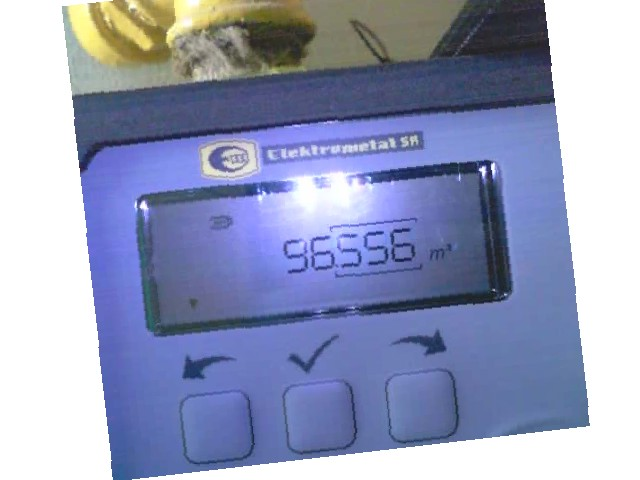
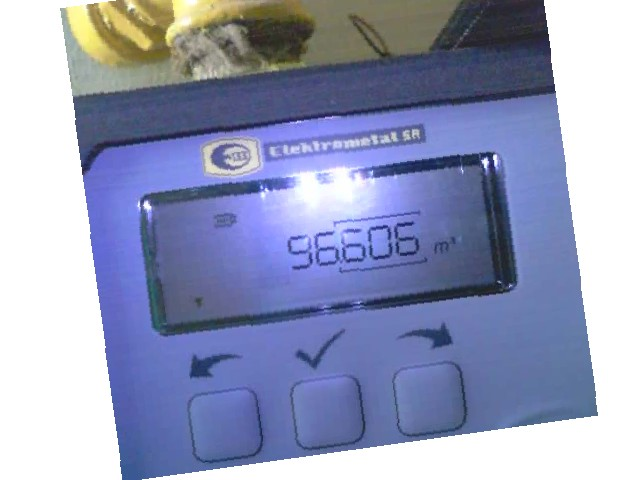
Automatyczna aktualizacja strony i danych

diff --git a/index.html b/index.html
@@ -35,11 +35,11 @@
 <body>
     <div class="container">
         <h1>Bieżący Stan Licznika</h1>
-        <div class="status">Ostatnia aktualizacja danych:<br><span class="timestamp">2026-10-27 08:26:16</span></div>
+        <div class="status">Ostatnia aktualizacja danych:<br><span class="timestamp">2026-10-27 08:31:43</span></div>
         <div class="odczyt">93498 m³</div>
         <div class="uwaga">Ostatni odczyt się nie powiódł, wyświetlana jest poprzednia poprawna wartość.</div>
         <h3>Aktualne zdjęcie z gazomierza:</h3>
-        <img src="img_tmp/alg.jpg?t=1793085976" alt="Zdjęcie licznika">
+        <img src="img_tmp/alg.jpg?t=1793086303" alt="Zdjęcie licznika">
     </div>
 </body>
 </html>
